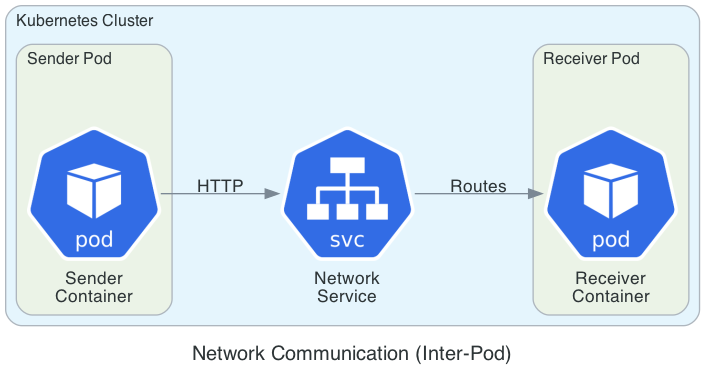
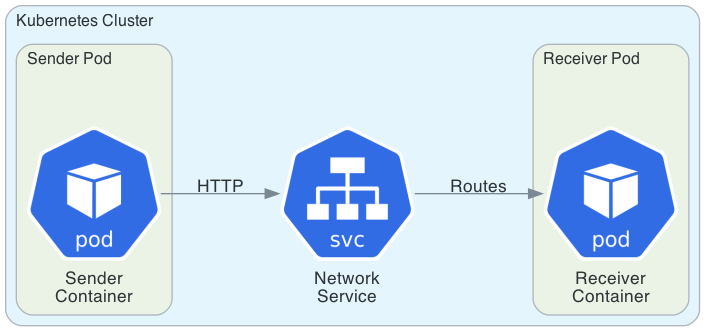
improve architecture diagrams

diff --git a/src/file/reader.js b/src/file/reader.js
@@ -59,7 +59,7 @@ async function processLoop() {
     while (true) {
         // Wait for signal if no pending check
         if (!shouldCheck) {
-            await new Promise(r => setTimeout(r, 5));
+            await new Promise(r => setTimeout(r, 1));
             continue;
         }
 

diff --git a/vis/architecture.py b/vis/architecture.py
@@ -16,7 +16,7 @@ SCRIPT_DIR = os.path.dirname(os.path.abspath(__file__))
 # Go up one level to repo root, then into results/architecture
 OUTPUT_DIR = os.path.join(SCRIPT_DIR, "..", "results", "architecture")
 os.makedirs(OUTPUT_DIR, exist_ok=True)
-
+ICON_PATH = os.path.join(OUTPUT_DIR, "container.png")
 
 def crop_whitespace(image_path):
     """Remove external whitespace from diagram image without affecting internal layout."""
@@ -77,7 +77,7 @@ graph_attr = {
 
 # Network-based architecture
 with Diagram(
-    "Network Communication (Inter-Pod)",
+    #"Network Communication (Inter-Pod)",
     filename=os.path.join(OUTPUT_DIR, "network_arch"),
     show=False,
     direction="LR",
@@ -97,11 +97,11 @@ with Diagram(
 # Crop external whitespace
 crop_whitespace(os.path.join(OUTPUT_DIR, "network_arch.png"))
 
-ICON_PATH = os.path.join(OUTPUT_DIR, "container.png")
+
 
 # File-based architecture
 with Diagram(
-    "File Communication (Intra-Pod)",
+    #"File Communication (Intra-Pod)",
     filename=os.path.join(OUTPUT_DIR, "file_arch"),
     show=False,
     direction="LR",
@@ -112,7 +112,7 @@ with Diagram(
             file_sender = Custom("Sender\nContainer", ICON_PATH)
 
             with Cluster("Shared Volume"):
-                volume = Volume()
+                volume = Volume("emptyDir")
 
             file_receiver = Custom("Receiver\nContainer", ICON_PATH)
 
@@ -121,5 +121,52 @@ with Diagram(
 
 # Crop external whitespace
 crop_whitespace(os.path.join(OUTPUT_DIR, "file_arch.png"))
+
+
+panel_attr = {
+    "style": "rounded,filled",
+    "color": "gray40",
+    "fillcolor": "gray95",
+    "fontsize": "12",
+    "margin": "16"
+}
+
+with Diagram(
+        filename=os.path.join(OUTPUT_DIR, "architectures"),
+        show=False,
+        direction="LR",
+        graph_attr={
+            **graph_attr,
+            "nodesep": "0.6",
+            "ranksep": "0.8",
+            "pad": "0.2"
+        },
+):
+    # --- Panel (a): Network ---
+    with Cluster("1) Inter-Pod: Service + HTTP/TCP", graph_attr=panel_attr):
+        with Cluster("Sender Pod"):
+            sender = Pod("Sender")
+
+        svc = Service("ClusterIP\nService")
+
+        with Cluster("Receiver Pod"):
+            receiver = Pod("Receiver")
+
+        sender >> Edge(label="HTTP") >> svc >> Edge(label="Routes") >> receiver
+
+    # --- Panel (b): File ---
+    with Cluster("2) Intra-Pod: emptyDir Volume", graph_attr=panel_attr):
+        with Cluster("Combined Pod"):
+            file_sender = Custom("Sender", ICON_PATH)
+
+            with Cluster("Shared Volume"):
+                volume = Volume("emptyDir")
+
+            file_receiver = Custom("Receiver", ICON_PATH)
+
+            file_sender >> Edge(label="Write") >> volume
+            volume >> Edge(label="Read") >> file_receiver
+
+crop_whitespace(os.path.join(OUTPUT_DIR, "architectures.png"))
 
 print("✅ Architecture diagrams generated in results/architecture/")
